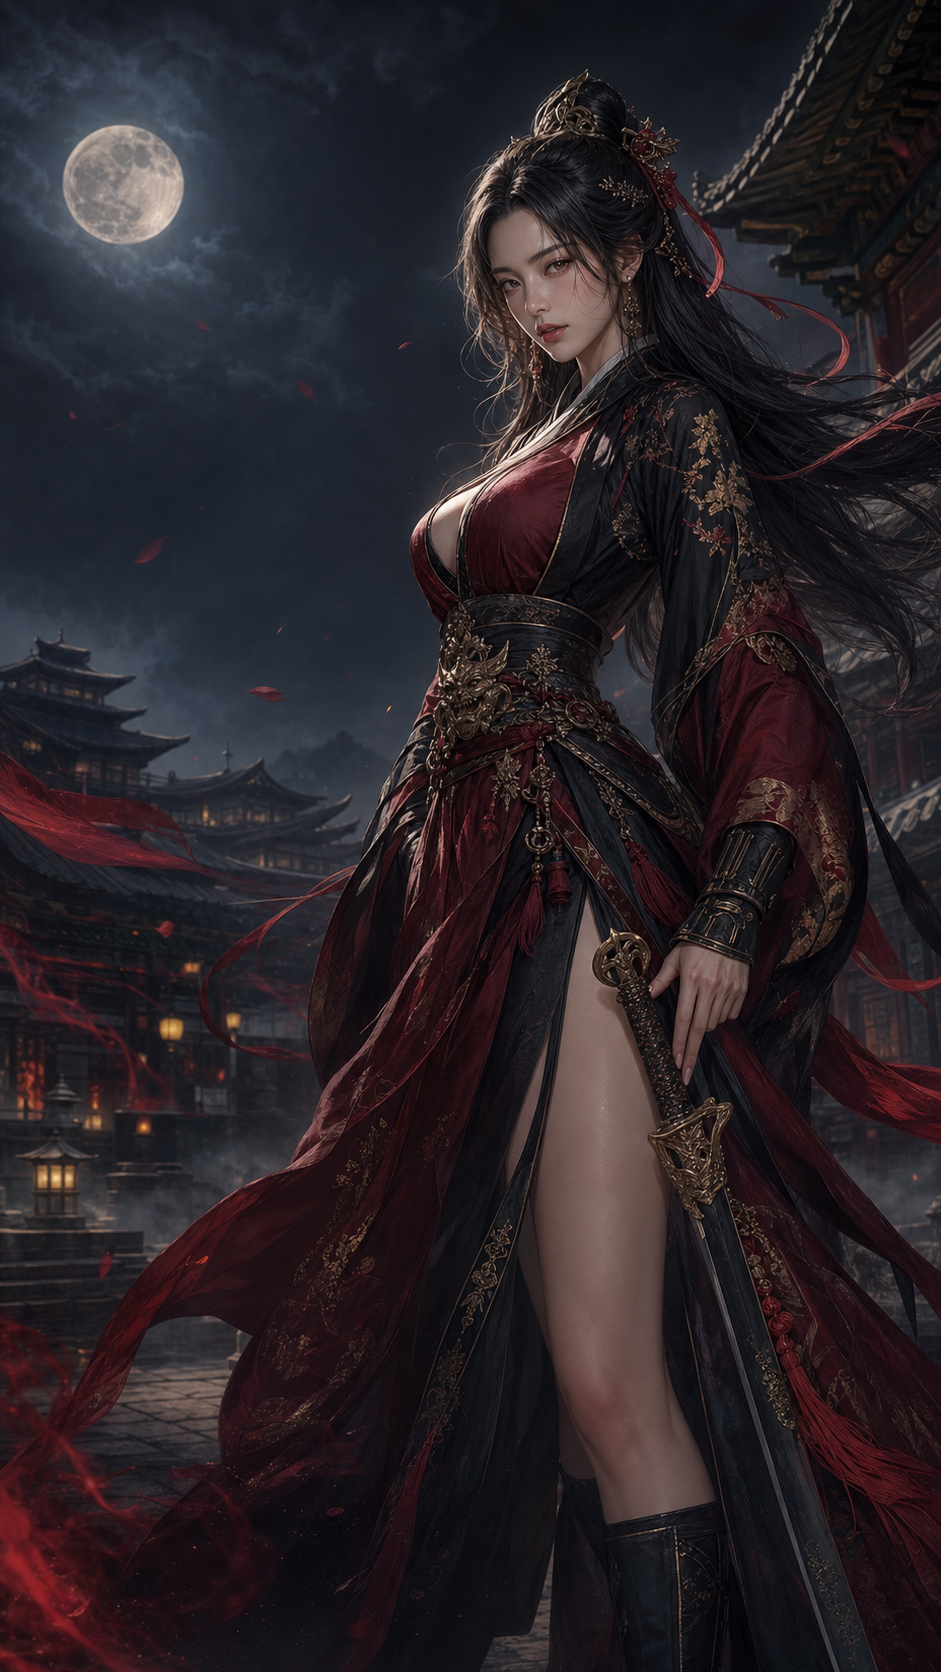
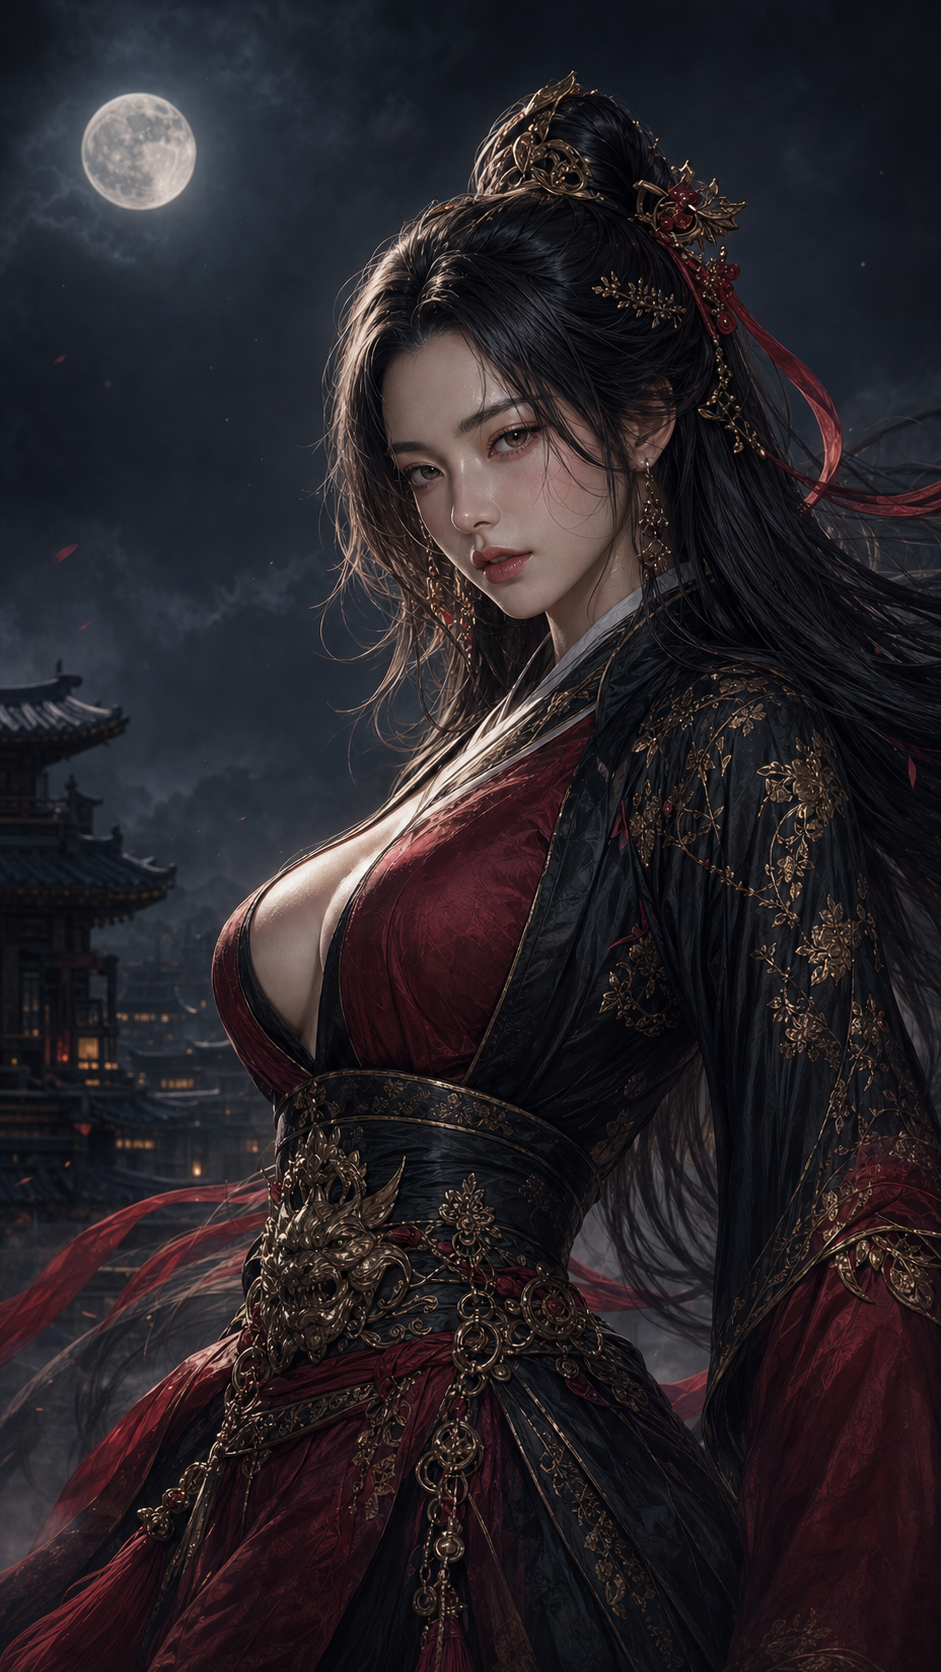
art: unify lobby and combat controls

diff --git a/Assets/JoseonHunter/Scripts/Editor/AssetImport/JoseonAssetPostprocessor.cs b/Assets/JoseonHunter/Scripts/Editor/AssetImport/JoseonAssetPostprocessor.cs
@@ -24,6 +24,10 @@ namespace JoseonHunter.Editor.AssetImport
             "Assets/JoseonHunter/Art/UI/Lobby/premium_lobby_frame.png";
         private const string PremiumLobbyButtonPath =
             "Assets/JoseonHunter/Art/UI/Lobby/premium_lobby_primary_button.png";
+        private const string PremiumLobbySecondaryButtonPath =
+            "Assets/JoseonHunter/Art/UI/Lobby/premium_lobby_secondary_button.png";
+        private const string CompactWeaponSlotPath =
+            "Assets/JoseonHunter/Art/UI/Combat/compact_weapon_slot.png";
         private const string CharacterRuntimeRoot = "Assets/JoseonHunter/Art/Characters/Runtime/";
         private const string FrontFacingCharacterRuntimeRoot =
             "Assets/JoseonHunter/Art/Characters/Runtime/FrontFacing/";
@@ -137,7 +141,11 @@ namespace JoseonHunter.Editor.AssetImport
                 || assetPath.Equals(PremiumLobbyResourceHeroPath, System.StringComparison.Ordinal);
             var isFrame = assetPath.Equals(PremiumLobbyFramePath, System.StringComparison.Ordinal);
             var isButton = assetPath.Equals(PremiumLobbyButtonPath, System.StringComparison.Ordinal);
-            if (!isHero && !isFrame && !isButton) return false;
+            var isSecondaryButton = assetPath.Equals(
+                PremiumLobbySecondaryButtonPath,
+                System.StringComparison.Ordinal);
+            var isCompactWeaponSlot = assetPath.Equals(CompactWeaponSlotPath, System.StringComparison.Ordinal);
+            if (!isHero && !isFrame && !isButton && !isSecondaryButton && !isCompactWeaponSlot) return false;
 
             var texture = (TextureImporter)assetImporter;
             texture.textureType = TextureImporterType.Sprite;
@@ -153,7 +161,10 @@ namespace JoseonHunter.Editor.AssetImport
             texture.alphaIsTransparency = !isHero;
             texture.spriteBorder = isFrame
                 ? new Vector4(48f, 48f, 48f, 48f)
-                : isButton ? new Vector4(32f, 32f, 32f, 32f) : Vector4.zero;
+                : isButton ? new Vector4(32f, 32f, 32f, 32f)
+                : isSecondaryButton ? new Vector4(16f, 16f, 16f, 16f)
+                : isCompactWeaponSlot ? new Vector4(16f, 16f, 16f, 16f)
+                : Vector4.zero;
             texture.textureCompression = TextureImporterCompression.Compressed;
             texture.SetPlatformTextureSettings(new TextureImporterPlatformSettings
             {

diff --git a/Assets/JoseonHunter/Tests/EditMode/PremiumLobbyAssetContractTests.cs b/Assets/JoseonHunter/Tests/EditMode/PremiumLobbyAssetContractTests.cs
@@ -14,6 +14,10 @@ namespace JoseonHunter.Tests.EditMode
             "Assets/JoseonHunter/Art/UI/Lobby/premium_lobby_frame.png";
         private const string PrimaryButtonPath =
             "Assets/JoseonHunter/Art/UI/Lobby/premium_lobby_primary_button.png";
+        private const string SecondaryButtonPath =
+            "Assets/JoseonHunter/Art/UI/Lobby/premium_lobby_secondary_button.png";
+        private const string CompactWeaponSlotPath =
+            "Assets/JoseonHunter/Art/UI/Combat/compact_weapon_slot.png";
 
         [Test]
         public void PremiumLobbyArtExistsAndIsMobileBounded()
@@ -41,6 +45,21 @@ namespace JoseonHunter.Tests.EditMode
             Assert.That(
                 button.border,
                 Is.EqualTo(new Vector4(32f, 32f, 32f, 32f)));
+        }
+
+        [Test]
+        public void SecondaryButtonAndCompactSlotAreSlicedMobileSprites()
+        {
+            foreach (var path in new[] { SecondaryButtonPath, CompactWeaponSlotPath })
+            {
+                var sprite = AssetDatabase.LoadAssetAtPath<Sprite>(path);
+                Assert.That(sprite, Is.Not.Null, path);
+                Assert.That(sprite.border.sqrMagnitude, Is.GreaterThan(0f), path);
+                var importer = AssetImporter.GetAtPath(path) as TextureImporter;
+                Assert.That(importer, Is.Not.Null, path);
+                Assert.That(importer.mipmapEnabled, Is.False, path);
+                Assert.That(importer.maxTextureSize, Is.LessThanOrEqualTo(1024), path);
+            }
         }
     }
 }

diff --git a/Docs/Superpowers/Plans/2026-08-04-lobby-research-gameplay-clarity.md b/Docs/Superpowers/Plans/2026-08-04-lobby-research-gameplay-clarity.md
@@ -30,7 +30,7 @@
 - Create: `Assets/JoseonHunter/Art/UI/Combat/compact_weapon_slot.png`
 - Replace: `Assets/JoseonHunter/Art/Characters/Lobby/han_yeonhwa_hero.png`
 - Replace: `Assets/JoseonHunter/Resources/Lobby/han_yeonhwa_hero.png`
-- Modify: `Assets/JoseonHunter/Scripts/Editor/AssetProduction/JoseonAssetPostprocessor.cs`
+- Modify: `Assets/JoseonHunter/Scripts/Editor/AssetImport/JoseonAssetPostprocessor.cs`
 - Modify: `Assets/JoseonHunter/Tests/EditMode/PremiumLobbyAssetContractTests.cs`
 
 **Interfaces:**
@@ -97,7 +97,7 @@ UI 프레임은 Point, mipmap off, max 1024, border 24~32px. 한연화는 Biline
 - [ ] **Step 6: 에셋 묶음 커밋·푸시**
 
 ```powershell
-git add -- Assets/JoseonHunter/Art/UI/Lobby/premium_lobby_secondary_button.png Assets/JoseonHunter/Art/UI/Combat/compact_weapon_slot.png Assets/JoseonHunter/Art/Characters/Lobby/han_yeonhwa_hero.png Assets/JoseonHunter/Resources/Lobby/han_yeonhwa_hero.png Assets/JoseonHunter/Scripts/Editor/AssetProduction/JoseonAssetPostprocessor.cs Assets/JoseonHunter/Tests/EditMode/PremiumLobbyAssetContractTests.cs
+git add -- Assets/JoseonHunter/Art/UI/Lobby/premium_lobby_secondary_button.png Assets/JoseonHunter/Art/UI/Combat/compact_weapon_slot.png Assets/JoseonHunter/Art/Characters/Lobby/han_yeonhwa_hero.png Assets/JoseonHunter/Resources/Lobby/han_yeonhwa_hero.png Assets/JoseonHunter/Scripts/Editor/AssetImport/JoseonAssetPostprocessor.cs Assets/JoseonHunter/Tests/EditMode/PremiumLobbyAssetContractTests.cs
 git commit -m "art: unify lobby and combat controls"
 git push origin master
 ```
